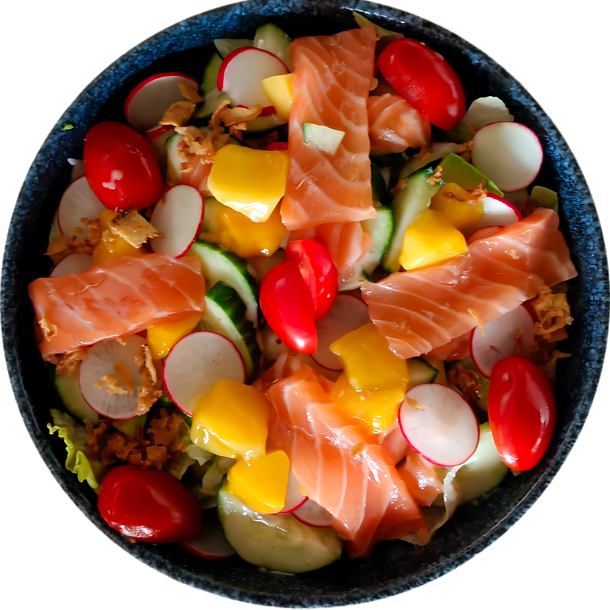
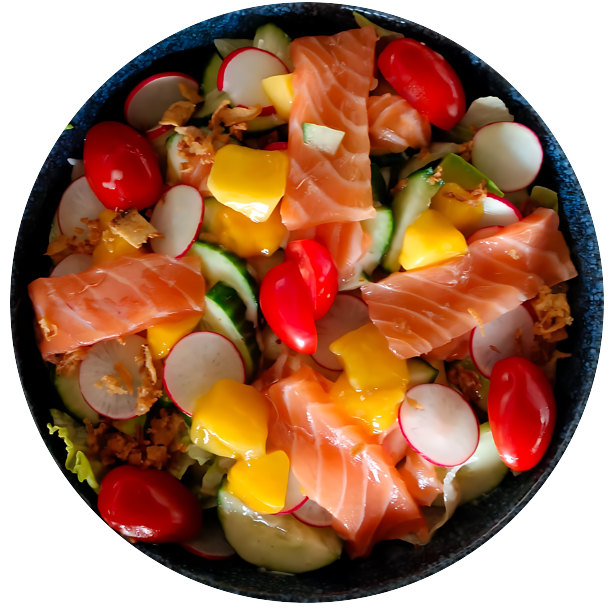
ok

diff --git a/js/custom.js b/js/custom.js
@@ -97,7 +97,7 @@ $(function(){
 				loop: true,
 				autoHeight: true,
 				margin: 40,
-				autoplay: true,
+				autoplay: false,
 				smartSpeed: 700,
 				items: 4,
 				stagePadding: 0,
@@ -136,7 +136,7 @@ $(function(){
 				loop: true,
 				autoHeight: true,
 				margin: 10,
-				autoplay: true,
+				autoplay: false,
 				smartSpeed: 700,
 				items: 4,
 				nav: false,
@@ -162,13 +162,13 @@ $(function(){
 			});
 		}
 		
-
+	
 		if ( $('.owl-single-text').length > 0 ) {
 			var owlText = $('.owl-single-text').owlCarousel({
 				loop: true,
 				autoHeight: true,
 				margin: 0,
-				autoplay: true,
+				autoplay: false,
 				autoplayHoverPause: true,
 				smartSpeed: 1200,
 				items: 1,
@@ -177,13 +177,13 @@ $(function(){
 			});
 		}
 		
-
+	
 		if ( $('.events-slider').length > 0 ) {
 			var owl = $('.events-slider').owlCarousel({
 				loop: true,
 				autoHeight: true,
 				margin: 0,
-				autoplay: true,
+				autoplay: false,
 				smartSpeed: 800,
 				mouseDrag: false,
 				touchDrag: false,
@@ -193,12 +193,12 @@ $(function(){
 			});
 		}
 		if ( $('.owl-single').length > 0 ) {
-
+	
 			var owl = $('.owl-single').owlCarousel({
 				loop: true,
 				autoHeight: true,
 				margin: 0,
-				autoplay: true,
+				autoplay: false,
 				autoplayHoverPause: true,
 				smartSpeed: 800,
 				mouseDrag: false,
@@ -208,26 +208,26 @@ $(function(){
 				navText: ['<span class="icon-keyboard_backspace"></span>','<span class="icon-keyboard_backspace"></span>'],
 				onChanged: changed,
 			});
-
+	
 			function changed(event) {
 				var i = event.item.index;
-
+	
 				if ( i == 0 || i == null) {
 					i = 1;
 				} else {
 					i = i - 1;
-
+	
 					$('.js-custom-dots li').removeClass('active');
 					$('.js-custom-dots li[data-index="'+i+'"]').addClass('active');
 				}				
 			}
-
+	
 			$('.js-custom-dots li').each(function(i) {
-
+	
 				var i = i + 1;
 				$(this).attr('data-index', i);
 			});
-
+	
 			$('.js-custom-dots a').on('click', function(e){
 				e.preventDefault();
 				owl.trigger('stop.owl.autoplay');
@@ -235,14 +235,14 @@ $(function(){
 				k = k - 1;
 				owl.trigger('to.owl.carousel', [k, 500]);
 			})
-
+	
 		}
-
-
+	
+	
 		if ( $('.wide-slider-testimonial').length > 0 ) {
 			$('.wide-slider-testimonial').owlCarousel({
 				loop:true,
-				autoplay: true,
+				autoplay: false,
 				margin:0,
 				animateOut: 'fadeOut',
 				animateIn: 'fadeIn',
@@ -267,8 +267,9 @@ $(function(){
 				}
 			});
 		}
-
+	
 	}
+	
 	owlPlugin();
 
 	var counter = function() {

diff --git a/index.html b/index.html
@@ -86,7 +86,7 @@
               <p class="mb-0" data-aos="fade-up" data-aos-delay="300"><a href="menu.html" class="btn btn-primary">Consultez notre menu</a></p>
 
             </div>
-            <div class="col-lg-6" data-aos="fade-up" data-aos-delay="100">
+            <div class="col-lg-6 col-md-8 col-sm-10 mx-auto" data-aos="fade-up" data-aos-delay="100">
               <div class="hero-img-wrap">
                 <span class="img-circle rotating">
                   <img src="images/circle-two.png" alt="Image" class="img-fluid">

diff --git a/css/style.css b/css/style.css
@@ -654,8 +654,8 @@ h1, .h1, h2, .h2, h3, .h3, h4, .h4 {
     left: 0; }
   .hero-img-wrap .img-bowl {
     max-width: 500px;
-    top: 20px;
-    left: 20px;
+    top: 10px;
+    left: 0px;
     position: relative; }
     @media (max-width: 991.98px) {
       .hero-img-wrap .img-bowl {
